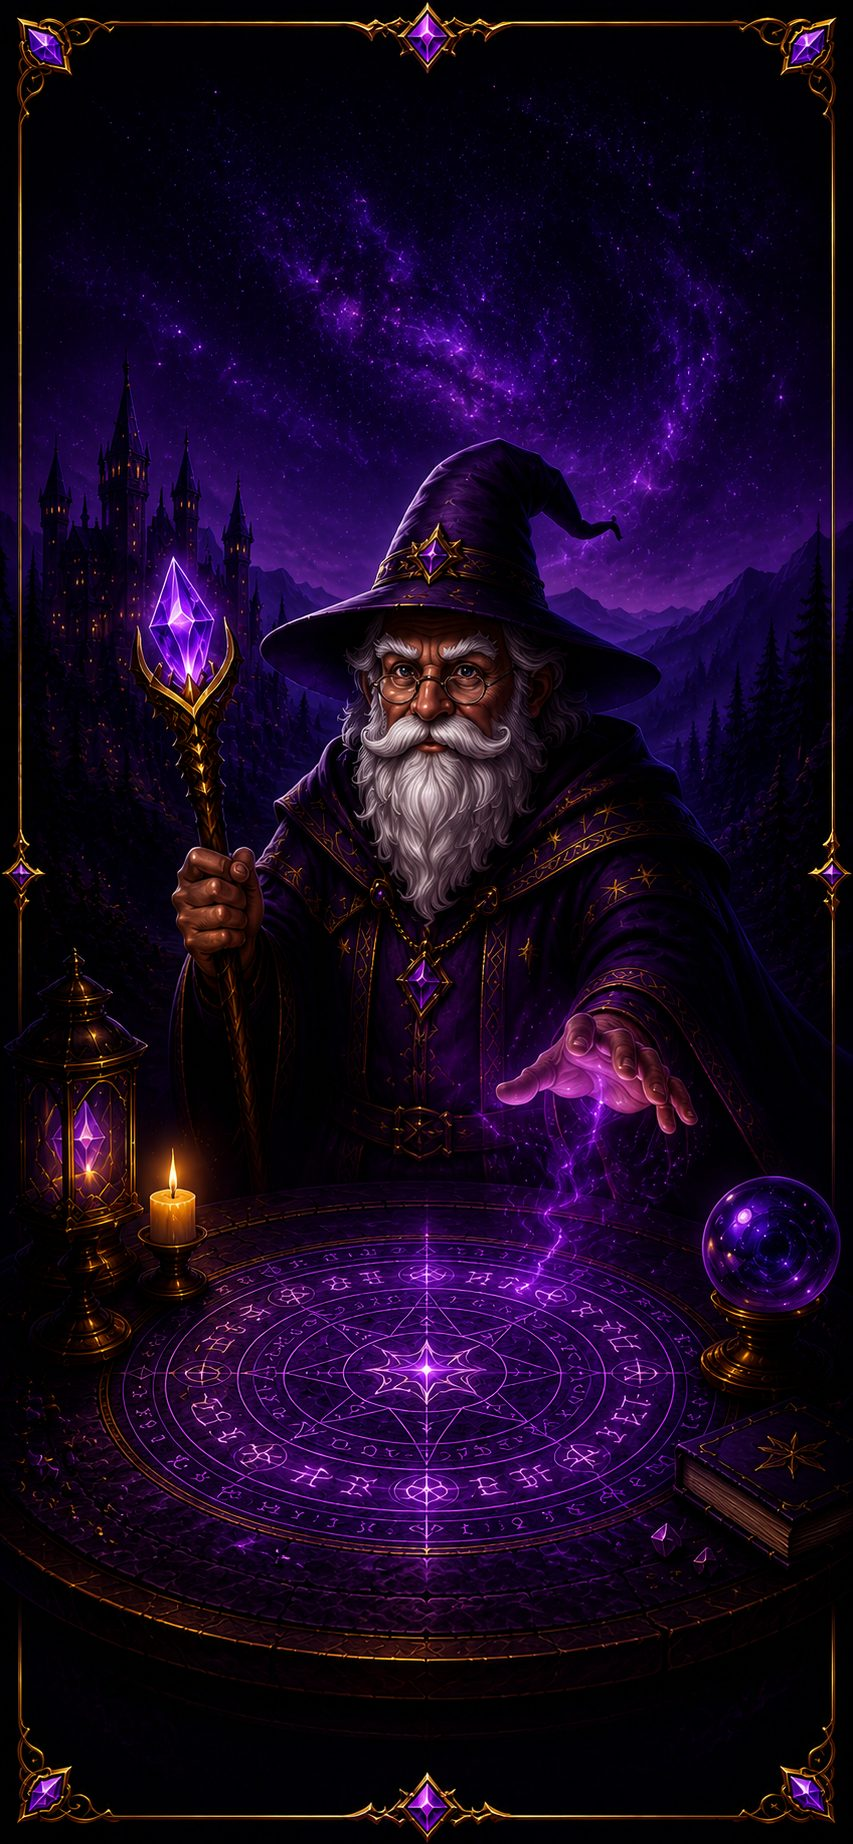
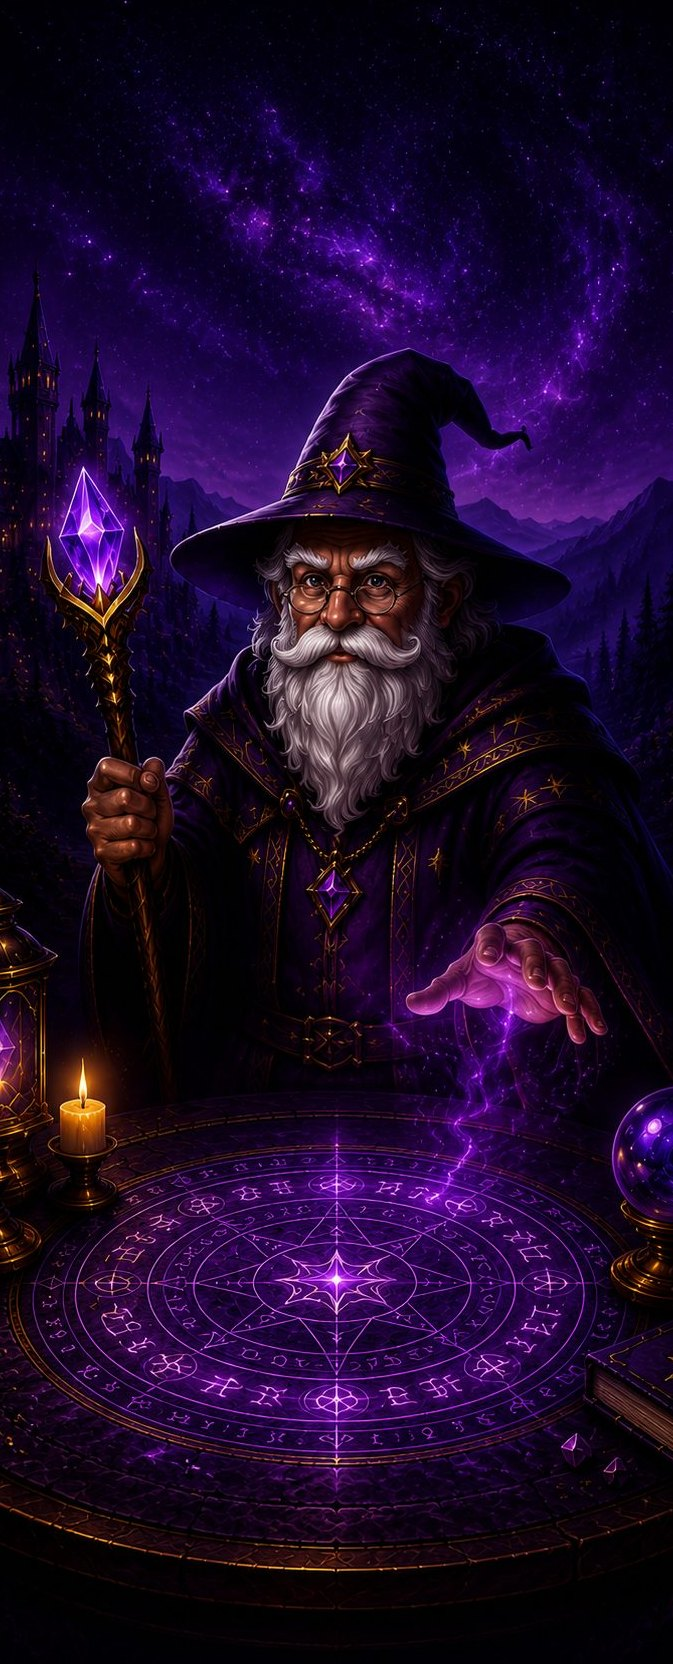
Ladebildschirm: eingebackener Goldrahmen entfernt (Notch-Kollision)
Das Loader-Artwork (lobby/loading.jpg) hatte einen Rahmen mit Eck-Edelsteinen,
der unter der iPhone-Notch/Statusleiste kollidierte. 90px je Seite beschnitten
-> randloses Vollbild-Motiv, nichts ueberschneidet mehr. Versionen gebumpt
(index.html, table.js, app.js Preload). Im Preview verifiziert.

diff --git a/table.js b/table.js
@@ -82,7 +82,7 @@ let assetsWarm = false;        // Deck in dieser Sitzung schon komplett geladen?
 let lastState = null;
 let lastFeltEl = null;
 // Das Ladebildschirm-Artwork selbst frueh in den Cache holen.
-try { const _la = new Image(); _la.src = 'lobby/loading.jpg?v=1'; } catch (_) {}
+try { const _la = new Image(); _la.src = 'lobby/loading.jpg?v=2'; } catch (_) {}
 function revealHand() { if (lastDockEl && lastDockEl.isConnected) lastDockEl.style.visibility = 'visible'; }
 
 // Noch nicht abgeflogene Handkarten an die Tischmitte versetzen (per-Karte
@@ -543,7 +543,7 @@ function showLoaderUI(game) {
     ? `Runde ${game.round_no} wird vorbereitet …`   // kalter Einstieg mitten im Spiel
     : 'Das Spiel wird vorbereitet …';
   ov.innerHTML = `
-    <img class="rl-art" src="lobby/loading.jpg?v=1" alt="">
+    <img class="rl-art" src="lobby/loading.jpg?v=2" alt="">
     <div class="rl-bottom">
       <div class="rl-text">${esc(txt)}</div>
       <div class="rl-bar"><div class="rl-fill" style="width:0%"></div></div>

diff --git a/app.js b/app.js
@@ -1680,7 +1680,7 @@ function runBootLoader() {
   document.querySelectorAll('img[src]').forEach(im => { const s = im.getAttribute('src'); if (s) urls.add(s); });
   // CSS-Hintergruende der Startseite + Ladebild selbst (URLs exakt wie im CSS)
   ['lobby/bg.jpg?v=2', 'lobby/home-hero.jpg', 'lobby/game-banner.jpg?v=1',
-   'lobby/loading.jpg?v=1'].forEach(u => urls.add(u));
+   'lobby/loading.jpg?v=2'].forEach(u => urls.add(u));
   // Spieltisch-Grafiken (Sitz-Rahmen, Buttons, Tisch, Kartenruecken) – damit
   // im Spiel selbst nichts mehr sichtbar nachlaedt.
   gameAssetUrls().forEach(u => urls.add(u));

diff --git a/index.html b/index.html
@@ -1400,7 +1400,7 @@
      laedt darunter alle Startseiten-Bilder + das Kartendeck und blendet ihn
      erst aus, wenn alles bereit ist (Balken zeigt den Fortschritt). -->
 <div id="boot-loader">
-  <img class="rl-art" src="lobby/loading.jpg?v=1" alt="">
+  <img class="rl-art" src="lobby/loading.jpg?v=2" alt="">
   <div class="rl-bottom">
     <div class="rl-text">Zaubertisch wird geladen …</div>
     <div class="rl-bar"><div class="rl-fill" style="width:0%"></div></div>
